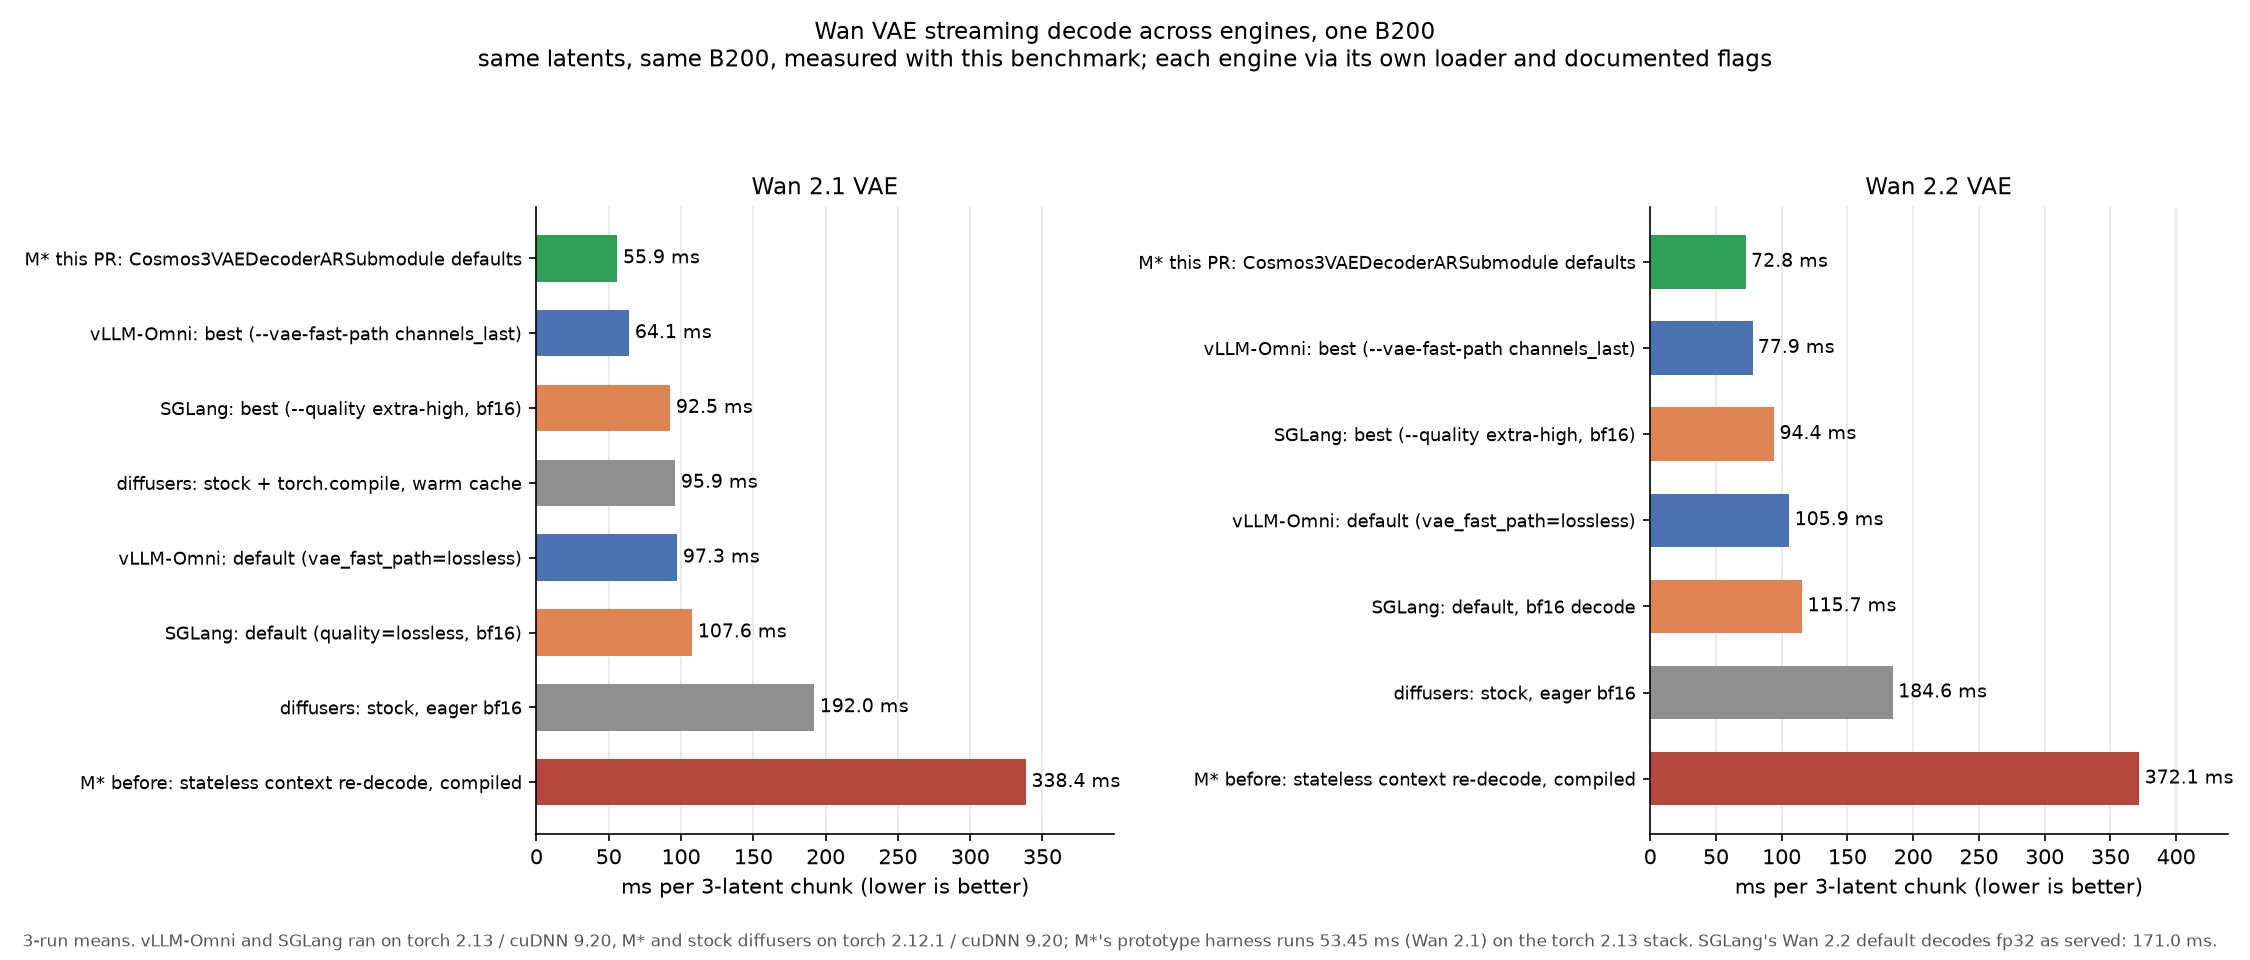
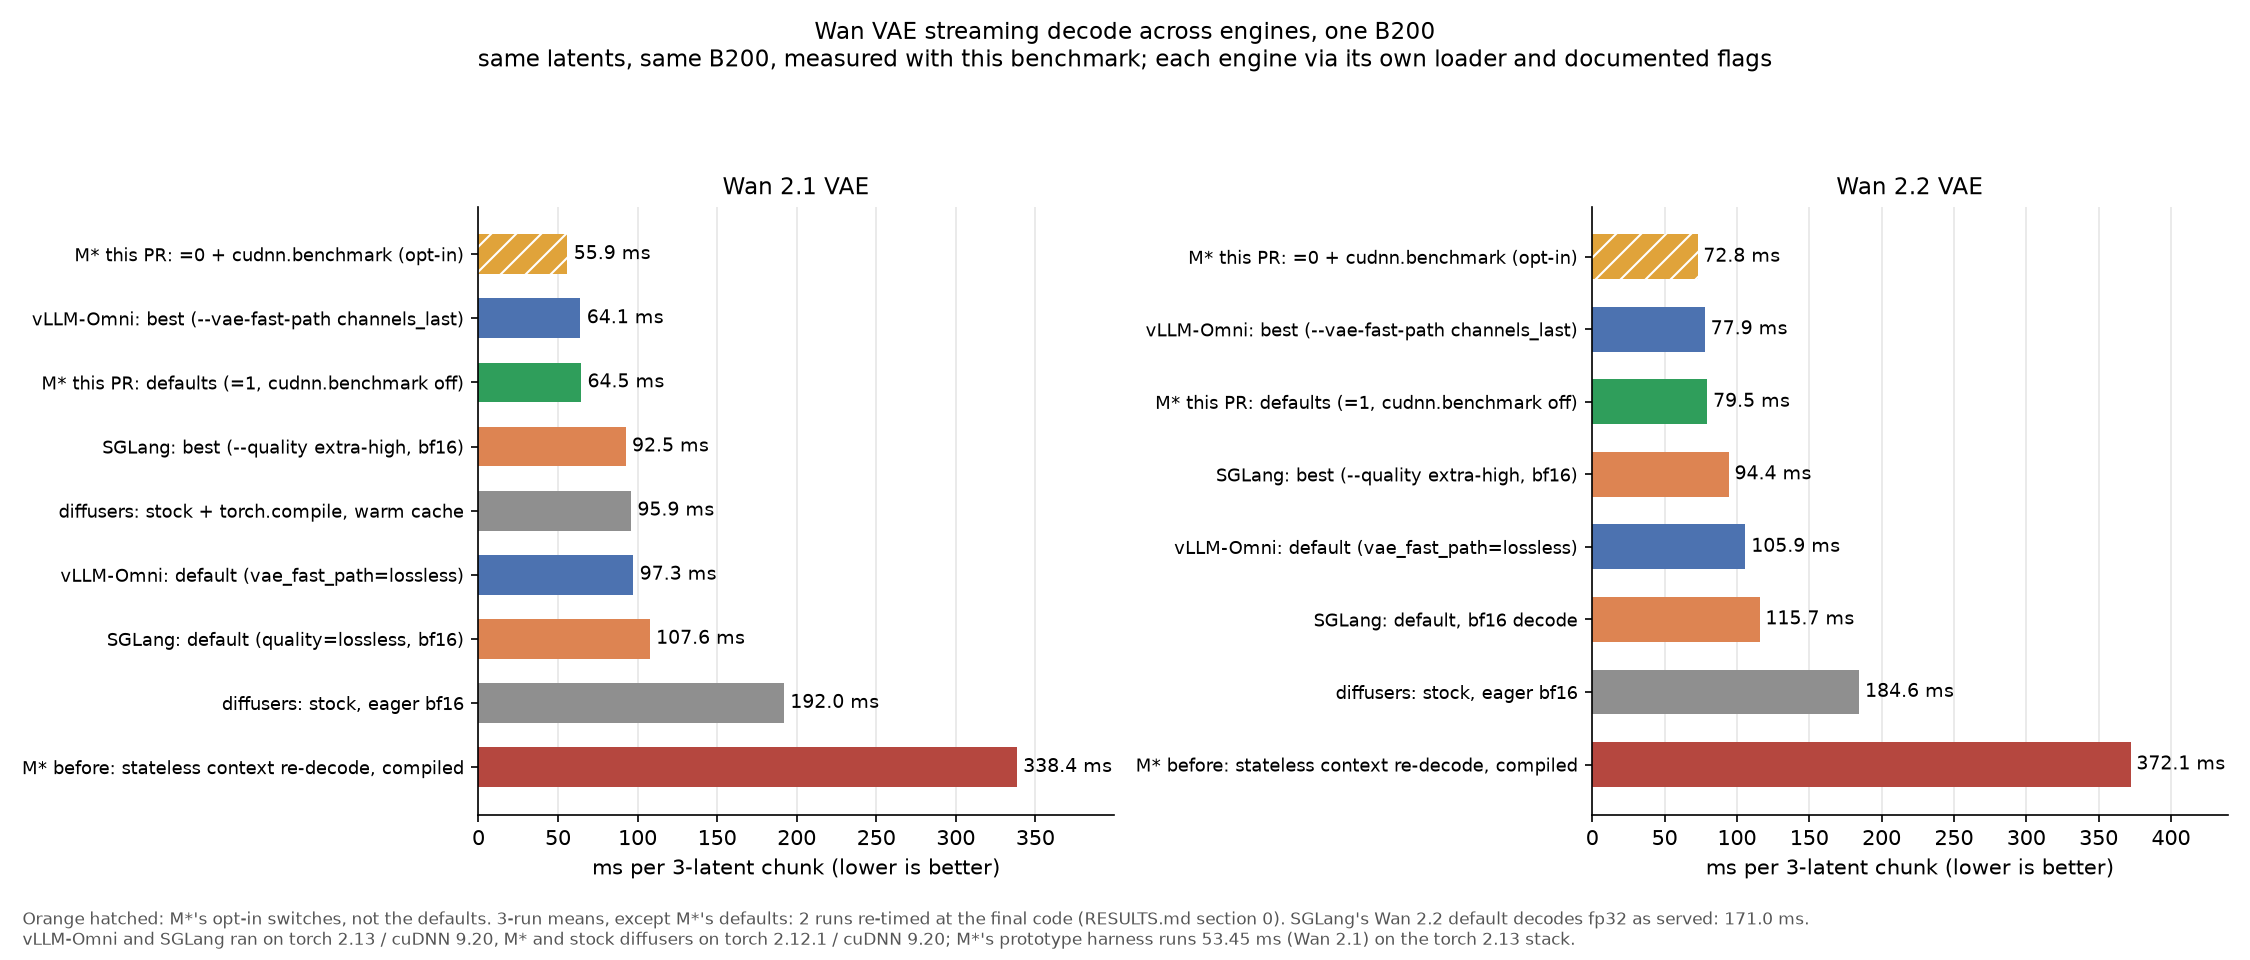
Wan VAE decode results: comparison chart shows the defaults and marks the opt-in bar
The "M* this PR" bar labelled "Cosmos3VAEDecoderARSubmodule defaults" was ladder step 5,
the opt-in =0 + cudnn.benchmark (72.78 / 55.88 ms). merge_comparison.py now labels that row
opt-in and adds the defaults row from retime.csv (final code, =1, cudnn.benchmark off:
79.53 / 64.52 ms). plot_results.py draws opt-in bars orange and hatched. RESULTS.md
section 7 gains the defaults row. The other comparison.csv rows regenerate unchanged.

Changed region(s): [[0.0, 0.2188, 0.9956, 1.0], [0.8089, 0.1875, 0.9022, 0.2188], [0.3111, 0.1875, 0.4044, 0.2188]]

diff --git a/benchmark/wan_vae_decoder/plot_results.py b/benchmark/wan_vae_decoder/plot_results.py
@@ -244,8 +244,10 @@ def comparison(res: Results, out: Path):
                 for r in res.comparison if vae in r.get("chart", "").split("+") and r[f"{vae}_ms"]]
         rows.sort(key=lambda t: t[1])
         ys = list(range(len(rows)))
-        for y, (_, v, engine) in zip(ys, rows, strict=True):
-            ax.barh(y, v, color=FAMILY_COLORS[engine], height=0.62)
+        for y, (label, v, engine) in zip(ys, rows, strict=True):
+            opt_in = "opt-in" in label
+            ax.barh(y, v, color=OPT_IN if opt_in else FAMILY_COLORS[engine], height=0.62,
+                    hatch="//" if opt_in else None, edgecolor="white" if opt_in else None, linewidth=0)
             ax.text(v + 4, y, f"{ms1(v)} ms", va="center", fontsize=9)
         ax.set_yticks(ys, [r[0] for r in rows], fontsize=8.5)
         ax.invert_yaxis()
@@ -258,10 +260,11 @@ def comparison(res: Results, out: Path):
     fig.suptitle("Wan VAE streaming decode across engines, one B200\n"
                  "same latents, same B200, measured with this benchmark; "
                  "each engine via its own loader and documented flags", fontsize=11)
-    footnote(fig, "3-run means. vLLM-Omni and SGLang ran on torch 2.13 / cuDNN 9.20, M* and stock diffusers on "
-                  "torch 2.12.1 / cuDNN 9.20; M*'s prototype harness runs 53.45 ms (Wan 2.1) on the torch 2.13 stack. "
-                  "SGLang's Wan 2.2 default decodes fp32 as served: 171.0 ms.")
-    fig.tight_layout(rect=(0, 0.04, 1, 0.92))
+    footnote(fig, "Orange hatched: M*'s opt-in switches, not the defaults. 3-run means, except M*'s defaults: 2 runs "
+                  "re-timed at the final code (RESULTS.md section 0). SGLang's Wan 2.2 default decodes fp32 as served: "
+                  "171.0 ms.\nvLLM-Omni and SGLang ran on torch 2.13 / cuDNN 9.20, M* and stock diffusers on "
+                  "torch 2.12.1 / cuDNN 9.20; M*'s prototype harness runs 53.45 ms (Wan 2.1) on the torch 2.13 stack.")
+    fig.tight_layout(rect=(0, 0.06, 1, 0.92))
     fig.savefig(out / "comparison.png", dpi=150)
     plt.close(fig)
 

diff --git a/benchmark/wan_vae_decoder/external/merge_comparison.py b/benchmark/wan_vae_decoder/external/merge_comparison.py
@@ -132,7 +132,13 @@ def main():
             [pick(sg["variance"], v, n, "mean_ms") if n else None for v, n in zip(VAES, names, strict=True)],
             [pick(sg["profile"], v, n, "kernels_per_chunk") if n else None for v, n in zip(VAES, names, strict=True)],
             [sg_u8(v, n) if n else None for v, n in zip(VAES, names, strict=True)], "external/sglang", chart=chart)
-    add("M* this PR", "in-tree node", STACK_MSTAR, "Cosmos3VAEDecoderARSubmodule defaults",
+    retime = read(d / "retime.csv") if (d / "retime.csv").exists() else []
+    defaults = [next((r["mean_ms"] for r in retime if r["code"] == "final" and r["vae"] == v
+                      and r["bench"].startswith("chunk") and r["variant"] == "mstar_warm"), None) for v in VAES]
+    if any(defaults):
+        add("M* this PR", "in-tree node", STACK_MSTAR, "defaults (=1, cudnn.benchmark off)",
+            defaults, [None, None], [None, None], "retime.csv (final code, 2 runs)")
+    add("M* this PR", "in-tree node", STACK_MSTAR, "=0 + cudnn.benchmark (opt-in)",
         [mstar_step(v, 5, "mean_ms") for v in VAES], [mstar_step(v, 5, "kernels_per_chunk") for v in VAES],
         [u8(v, "mstar_warm") for v in VAES], "ladder step 5" if args.mstar == "ladder" else "intree.csv")
     out = d / "comparison.csv"

diff --git a/benchmark/wan_vae_decoder/results/b200/RESULTS.md b/benchmark/wan_vae_decoder/results/b200/RESULTS.md
@@ -329,9 +329,10 @@ Same latents, same fp32 reference, same stream protocol and timing (3-latent chu
 | SGLang | v0.5.21 | default, bf16 decode | — | 115.72 | — / 937 | — / 762 | — / 6.3% ≠ |
 | SGLang | v0.5.21 | best (--quality extra-high, bf16) | 92.50 | 94.36 | 567 / 604 | 439 / 935 | 5.8% ≠ / 4.4% ≠ |
 | SGLang | v0.5.21 | --enable-torch-compile, bf16 | 102.16 | 110.96 | 843 / 874 | 398 / 795 | 7.7% ≠ / — |
+| M* this PR | in-tree node | defaults (`=1`, `cudnn.benchmark` off) | 64.52 | 79.53 | — / — | 630 / 1,109 | — / — |
 | M* this PR | in-tree node | `=0` + `cudnn.benchmark` (opt-in) | 55.88 | 72.78 | 149 / 165 | 727 / 1,212 | 15.7% ≠ / 13.1% ≠ |
 
-Kernels per chunk come from one profiled run; TFLOP/s is useful work (40.65 / 88.18 TFLOP per chunk) over wall time. The uint8 column compares each engine with stock diffusers bf16 run on that engine's own stack. M*'s rows also carry the node's bf16 input de-normalization.
+M*'s defaults row is the 2-run re-time at the final code (section 0, `retime.csv`), not profiled or hashed; the other rows are 3-run means. Kernels per chunk come from one profiled run; TFLOP/s is useful work (40.65 / 88.18 TFLOP per chunk) over wall time. The uint8 column compares each engine with stock diffusers bf16 run on that engine's own stack. M*'s rows also carry the node's bf16 input de-normalization.
 
 **Output quality, same streams.** Every engine's full 1,021-frame stream was compared with M*'s stock diffusers bf16 stream and fp32 reference, using `quality.py`'s metrics.
 
